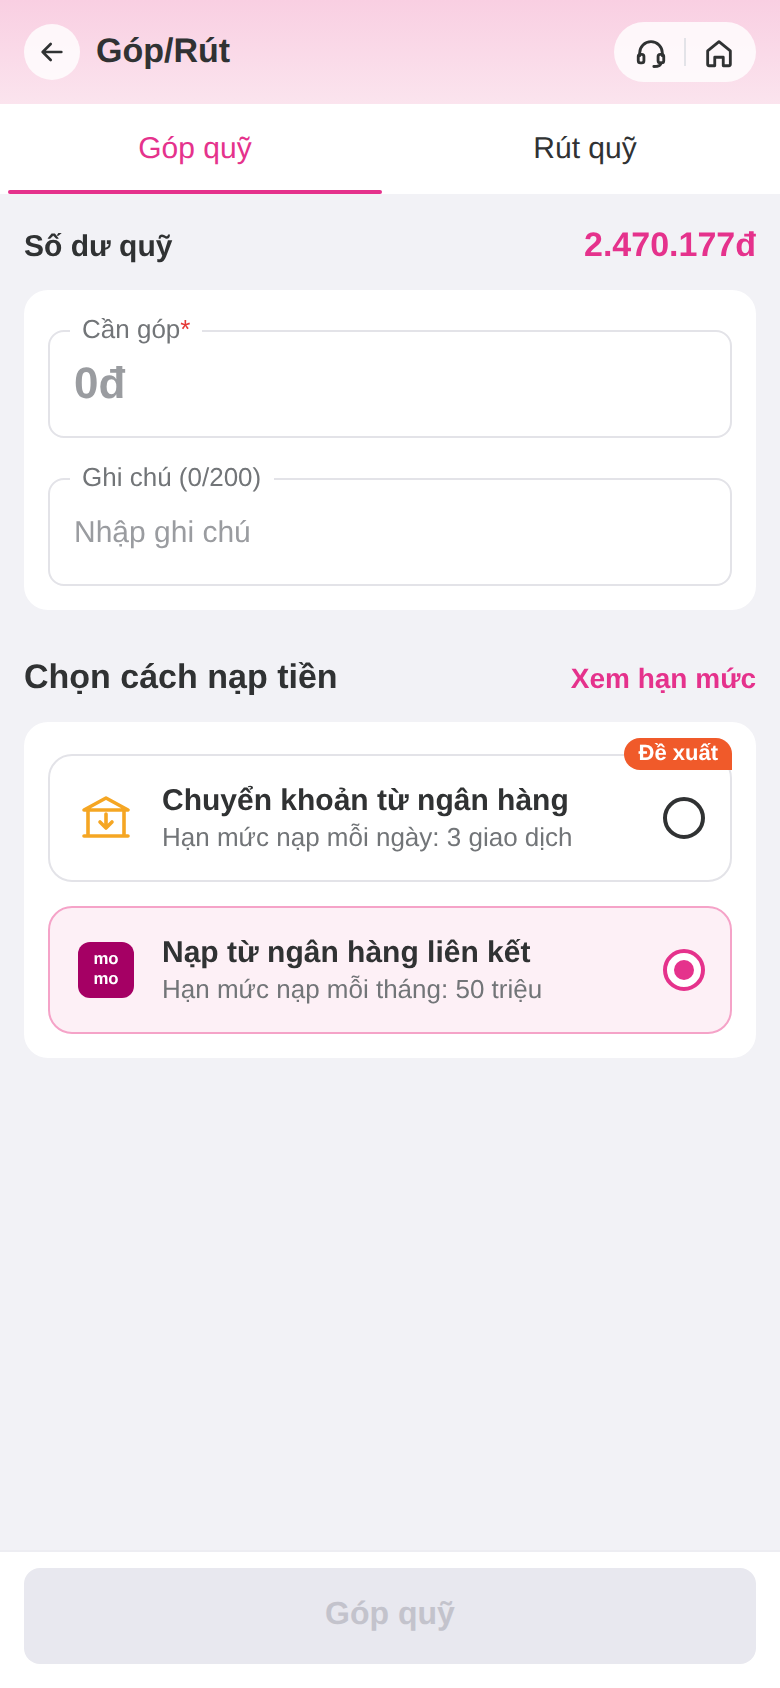
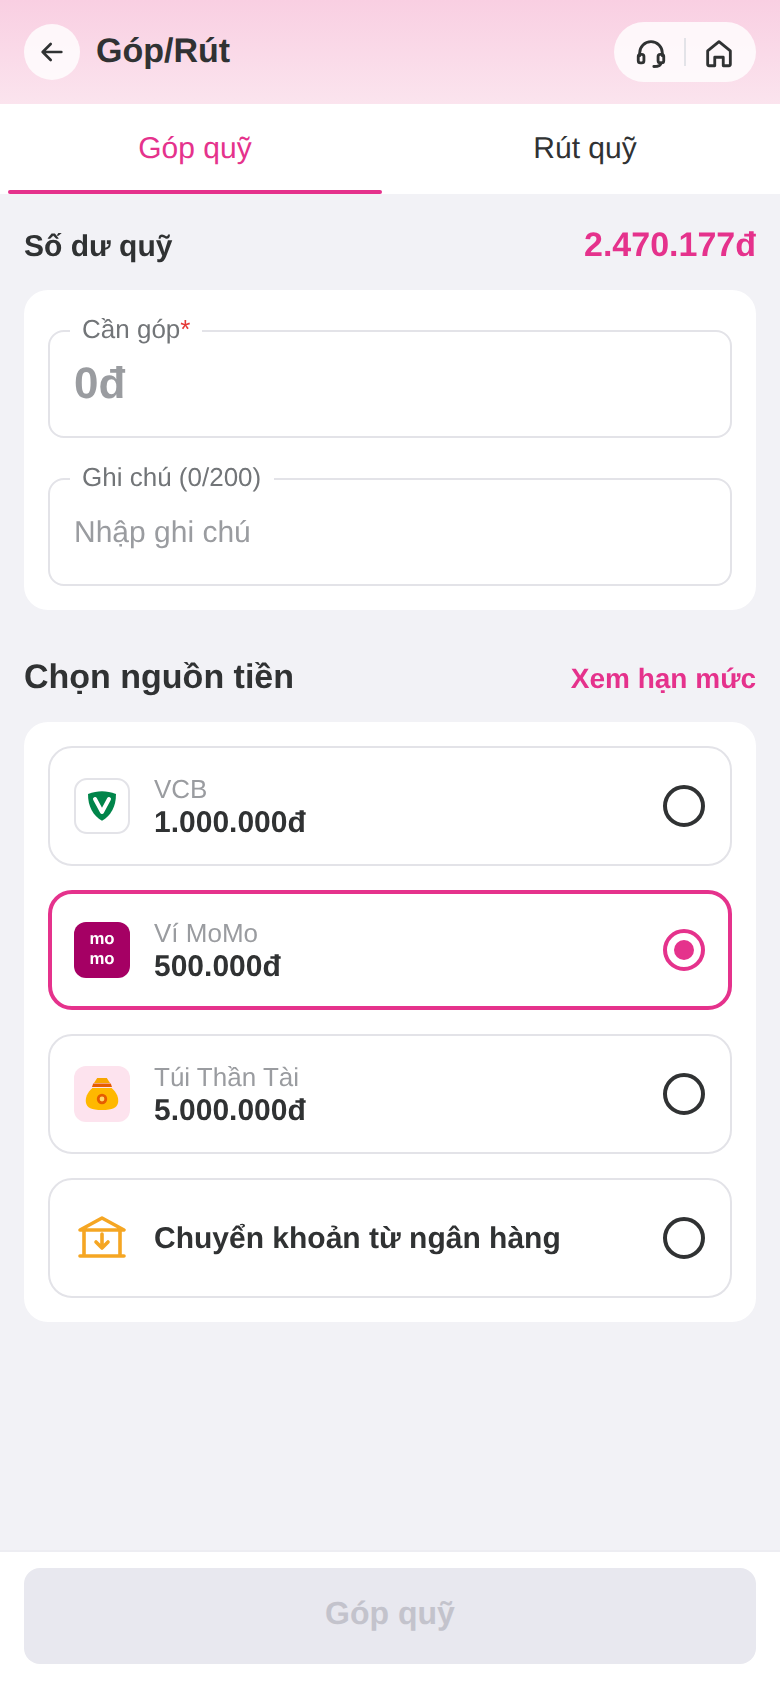
Replace payment methods with 4 funding sources
VCB, Ví MoMo, Túi Thần Tài (all with balance + radio) and bank transfer.
Shows an insufficient-balance error and disables submit when the amount
exceeds the selected source's balance. Mock data moved to src/mocks.

Claude-Session: https://claude.ai/code/session_01XGpss1dPmfyqQc79yWw2xL

diff --git a/src/screens/GopQuyScreen.tsx b/src/screens/GopQuyScreen.tsx
@@ -1,34 +1,29 @@
-import React, { useMemo, useState } from 'react';
+import React, { useState } from 'react';
 import { KeyboardAvoidingView, Modal, Platform, Pressable, ScrollView, StyleSheet, Text, View } from 'react-native';
 import { ButtonFooter } from '../components/ButtonFooter';
-import { IconBankTransfer, MoMoMark } from '../components/icons';
+import { FundingSourceItem } from '../components/FundingSourceItem';
+import { IconBankTransfer, MoMoMark, TuiThanTaiMark, VcbMark } from '../components/icons';
 import { InputText } from '../components/InputText';
-import { PaymentMethodItem } from '../components/PaymentMethodItem';
 import { Tabs } from '../components/Tabs';
 import { TopNavigation } from '../components/TopNavigation';
+import {
+  DEFAULT_FUNDING_SOURCE,
+  FUND_BALANCE,
+  FUNDING_SOURCES,
+  FundingSourceId,
+} from '../mocks/fundingSources';
 import { colors, radius, spacing, typography } from '../theme';
 
 type Tab = 'gop' | 'rut';
-type Method = 'bank_transfer' | 'linked_bank';
 
-const FUND_BALANCE = 2470177;
 const NOTE_MAX = 200;
 
-const METHODS: { key: Method; title: string; subtitle: string; tag?: string; icon: React.ReactNode }[] = [
-  {
-    key: 'bank_transfer',
-    title: 'Chuyển khoản từ ngân hàng',
-    subtitle: 'Hạn mức nạp mỗi ngày: 3 giao dịch',
-    tag: 'Đề xuất',
-    icon: <IconBankTransfer />,
-  },
-  {
-    key: 'linked_bank',
-    title: 'Nạp từ ngân hàng liên kết',
-    subtitle: 'Hạn mức nạp mỗi tháng: 50 triệu',
-    icon: <MoMoMark />,
-  },
-];
+const SOURCE_ICONS: Record<FundingSourceId, React.ReactNode> = {
+  vcb: <VcbMark />,
+  momo_wallet: <MoMoMark />,
+  tui_than_tai: <TuiThanTaiMark />,
+  bank_transfer: <IconBankTransfer />,
+};
 
 export const formatVnd = (n: number) => `${n.toLocaleString('vi-VN').replace(/,/g, '.')}đ`;
 
@@ -36,13 +31,15 @@ export default function GopQuyScreen() {
   const [tab, setTab] = useState<Tab>('gop');
   const [amountDigits, setAmountDigits] = useState('');
   const [note, setNote] = useState('');
-  const [method, setMethod] = useState<Method>('linked_bank');
+  const [source, setSource] = useState<FundingSourceId>(DEFAULT_FUNDING_SOURCE);
   const [confirmOpen, setConfirmOpen] = useState(false);
   const [done, setDone] = useState(false);
 
   const amount = Number(amountDigits || 0);
-  const canSubmit = amount > 0 && !!method;
-  const methodLabel = useMemo(() => METHODS.find((m) => m.key === method)?.title ?? '', [method]);
+  const selected = FUNDING_SOURCES.find((s) => s.id === source)!;
+  const insufficient = selected.balance !== undefined && amount > selected.balance;
+  const canSubmit = amount > 0 && !insufficient;
+  const methodLabel = selected.label;
 
   const onAmountChange = (text: string) => {
     const digits = text.replace(/\D/g, '').replace(/^0+/, '').slice(0, 12);
@@ -91,23 +88,23 @@ export default function GopQuyScreen() {
               />
             </View>
 
-            {/* Phương thức nạp tiền — mới */}
+            {/* Nguồn tiền — mới */}
             <View style={styles.sectionHeader}>
-              <Text style={typography.sectionTitle}>Chọn cách nạp tiền</Text>
+              <Text style={typography.sectionTitle}>Chọn nguồn tiền</Text>
               <Pressable hitSlop={8}>
                 <Text style={styles.link}>Xem hạn mức</Text>
               </Pressable>
             </View>
-            <View style={[styles.card, { gap: spacing.md, paddingTop: spacing.lg }]} accessibilityRole="radiogroup">
-              {METHODS.map((m) => (
-                <PaymentMethodItem
-                  key={m.key}
-                  icon={m.icon}
-                  title={m.title}
-                  subtitle={m.subtitle}
-                  tag={m.tag}
-                  selected={method === m.key}
-                  onPress={() => setMethod(m.key)}
+            <View style={[styles.card, { gap: spacing.md }]} accessibilityRole="radiogroup">
+              {FUNDING_SOURCES.map((s) => (
+                <FundingSourceItem
+                  key={s.id}
+                  icon={SOURCE_ICONS[s.id]}
+                  label={s.label}
+                  balance={s.balance !== undefined ? formatVnd(s.balance) : undefined}
+                  error={s.id === source && insufficient ? 'Số dư không đủ, chọn nguồn tiền khác' : undefined}
+                  selected={source === s.id}
+                  onPress={() => setSource(s.id)}
                 />
               ))}
             </View>
@@ -128,7 +125,7 @@ export default function GopQuyScreen() {
               <>
                 <Text style={[typography.sectionTitle, { textAlign: 'center' }]}>Góp quỹ thành công</Text>
                 <Text style={[typography.caption, { textAlign: 'center', marginTop: spacing.sm }]}>
-                  {formatVnd(amount)} qua {methodLabel.toLowerCase()}
+                  {formatVnd(amount)} từ {methodLabel}
                 </Text>
                 <Pressable
                   style={[styles.sheetBtn, { marginTop: spacing.xl }]}

diff --git a/src/components/FundingSourceItem.tsx b/src/components/FundingSourceItem.tsx
@@ -1,0 +1,72 @@
+import React from 'react';
+import { Pressable, StyleSheet, Text, View } from 'react-native';
+import { colors, radius, spacing, typography } from '../theme';
+import { RadioMark } from './icons';
+
+/**
+ * Một nguồn tiền trong danh sách "Chọn nguồn tiền".
+ * - Có `balance`: label xám nhỏ + số dư đậm (VCB, Ví MoMo, Túi Thần Tài).
+ * - Không có `balance`: chỉ một dòng tiêu đề (Chuyển khoản từ ngân hàng).
+ */
+export function FundingSourceItem({
+  icon,
+  label,
+  balance,
+  error,
+  selected,
+  onPress,
+}: {
+  icon: React.ReactNode;
+  label: string;
+  balance?: string;
+  error?: string;
+  selected: boolean;
+  onPress: () => void;
+}) {
+  return (
+    <Pressable
+      onPress={onPress}
+      accessibilityRole="radio"
+      accessibilityState={{ checked: selected }}
+      style={[styles.item, selected && styles.itemSelected]}
+    >
+      <View style={styles.icon}>{icon}</View>
+      <View style={{ flex: 1 }}>
+        {balance !== undefined ? (
+          <>
+            <Text style={styles.label}>{label}</Text>
+            <Text style={styles.balance}>{balance}</Text>
+          </>
+        ) : (
+          <Text style={typography.bodyStrong}>{label}</Text>
+        )}
+        {error ? <Text style={styles.error}>{error}</Text> : null}
+      </View>
+      <RadioMark selected={selected} />
+    </Pressable>
+  );
+}
+
+const styles = StyleSheet.create({
+  item: {
+    flexDirection: 'row',
+    alignItems: 'center',
+    minHeight: 60,
+    borderWidth: 1,
+    borderColor: colors.border,
+    borderRadius: radius.md,
+    paddingVertical: 10,
+    paddingHorizontal: spacing.md,
+    backgroundColor: colors.surface,
+  },
+  itemSelected: {
+    borderWidth: 2,
+    borderColor: colors.primary,
+    paddingVertical: 9,
+    paddingHorizontal: spacing.md - 1,
+  },
+  icon: { width: 28, marginRight: spacing.md, alignItems: 'center' },
+  label: { fontSize: 13, color: colors.textHint },
+  balance: { fontSize: 15, fontWeight: '700', color: colors.textPrimary, marginTop: 1 },
+  error: { fontSize: 12, color: colors.danger, marginTop: 2 },
+});

diff --git a/src/components/icons.tsx b/src/components/icons.tsx
@@ -43,6 +43,31 @@ export function IconBankTransfer({ size = 28, color = colors.bankIcon }: IconPro
   );
 }
 
+/** Logo VCB (giản lược) — khiên xanh lá trên nền trắng. */
+export function VcbMark({ size = 28 }: { size?: number }) {
+  return (
+    <Svg width={size} height={size} viewBox="0 0 28 28">
+      <Rect x={0.5} y={0.5} width={27} height={27} rx={6} fill="#fff" stroke="#E3E3E8" />
+      <Path d="M7 8c2.5-1 4.7-1.4 7-1.4S18.5 7 21 8c0 6.5-2.6 10.8-7 13.4C9.6 18.8 7 14.5 7 8z" fill="#00854A" />
+      <Path d="M10.5 10.5l3.5 6.5 3.5-6.5" stroke="#fff" strokeWidth={2} fill="none" strokeLinecap="round" strokeLinejoin="round" />
+    </Svg>
+  );
+}
+
+/** Icon Túi Thần Tài (giản lược) — túi vàng trên nền hồng nhạt. */
+export function TuiThanTaiMark({ size = 28 }: { size?: number }) {
+  return (
+    <Svg width={size} height={size} viewBox="0 0 28 28">
+      <Rect x={0} y={0} width={28} height={28} rx={6} fill="#FDE3EE" />
+      <Path d="M10 8.5l1.6-2.5h4.8L18 8.5" fill="#F7A600" />
+      <Path d="M9 10.5h10l-.6-1.8H9.6z" fill="#E65C00" />
+      <Path d="M9.2 11c-2.6 2.3-3.7 5-3.2 7.5.5 2.3 2.6 3.5 8 3.5s7.5-1.2 8-3.5c.5-2.5-.6-5.2-3.2-7.5z" fill="#FFB800" />
+      <Circle cx={14} cy={16.5} r={2.6} fill="#E65C00" />
+      <Circle cx={14} cy={16.5} r={1.2} fill="#FFD76A" />
+    </Svg>
+  );
+}
+
 /** Mark MoMo — dùng cho "Nạp từ ngân hàng liên kết". */
 export function MoMoMark({ size = 28 }: { size?: number }) {
   return (

diff --git a/src/mocks/fundingSources.ts b/src/mocks/fundingSources.ts
@@ -1,0 +1,20 @@
+/** Mock nguồn tiền cho màn Góp quỹ — không phải dữ liệu thật. */
+export type FundingSourceId = 'vcb' | 'momo_wallet' | 'tui_than_tai' | 'bank_transfer';
+
+export type FundingSource = {
+  id: FundingSourceId;
+  label: string;
+  /** Số dư (VND). Không có = nguồn ngoài MoMo, không kiểm tra số dư. */
+  balance?: number;
+};
+
+export const FUNDING_SOURCES: FundingSource[] = [
+  { id: 'vcb', label: 'VCB', balance: 1_000_000 },
+  { id: 'momo_wallet', label: 'Ví MoMo', balance: 500_000 },
+  { id: 'tui_than_tai', label: 'Túi Thần Tài', balance: 5_000_000 },
+  { id: 'bank_transfer', label: 'Chuyển khoản từ ngân hàng' },
+];
+
+export const DEFAULT_FUNDING_SOURCE: FundingSourceId = 'momo_wallet';
+
+export const FUND_BALANCE = 2_470_177;

diff --git a/README.md b/README.md
@@ -1,6 +1,6 @@
 # bank-balance-prototype
 
-Prototype màn **Góp quỹ** mới: giữ nguyên nhập số tiền + ghi chú, thêm phần **chọn cách nạp tiền** (Chuyển khoản từ ngân hàng / Nạp từ ngân hàng liên kết) theo pattern màn Túi Thần Tài.
+Prototype màn **Góp quỹ** mới: giữ nguyên nhập số tiền + ghi chú, thêm phần **Chọn nguồn tiền** gồm VCB, Ví MoMo, Túi Thần Tài và Chuyển khoản từ ngân hàng. Nguồn có số dư sẽ báo lỗi và khoá nút khi số tiền góp vượt số dư.
 
 ## Chạy thử
 
@@ -16,11 +16,12 @@ npx expo start --tunnel   # quét QR bằng Expo Go
 ## Cấu trúc
 
 - `src/screens/GopQuyScreen.tsx` — màn Góp/Rút (tab Góp quỹ), sheet xác nhận mock
-- `src/components/` — đặt tên theo MoMo UI Kit: `TopNavigation`, `Tabs`, `InputText`, `ButtonFooter`, `PaymentMethodItem`
+- `src/components/` — đặt tên theo MoMo UI Kit: `TopNavigation`, `Tabs`, `InputText`, `ButtonFooter`, `FundingSourceItem`
+- `src/mocks/fundingSources.ts` — mock nguồn tiền và số dư
 - `src/theme.ts` — design tokens (màu, spacing, typography). **Tạm lấy theo ảnh màn hiện tại**; thay bằng variables từ MoMo UI Kit khi Figma MCP đọc được.
 
 ## Preview
 
-| Mặc định | Đã nhập | Xác nhận |
+| Mặc định | Không đủ số dư | Xác nhận |
 |---|---|---|
-| ![](docs/1_empty.png) | ![](docs/2_filled.png) | ![](docs/3_confirm.png) |
+| ![](docs/1_empty.png) | ![](docs/4_insufficient.png) | ![](docs/3_confirm.png) |
